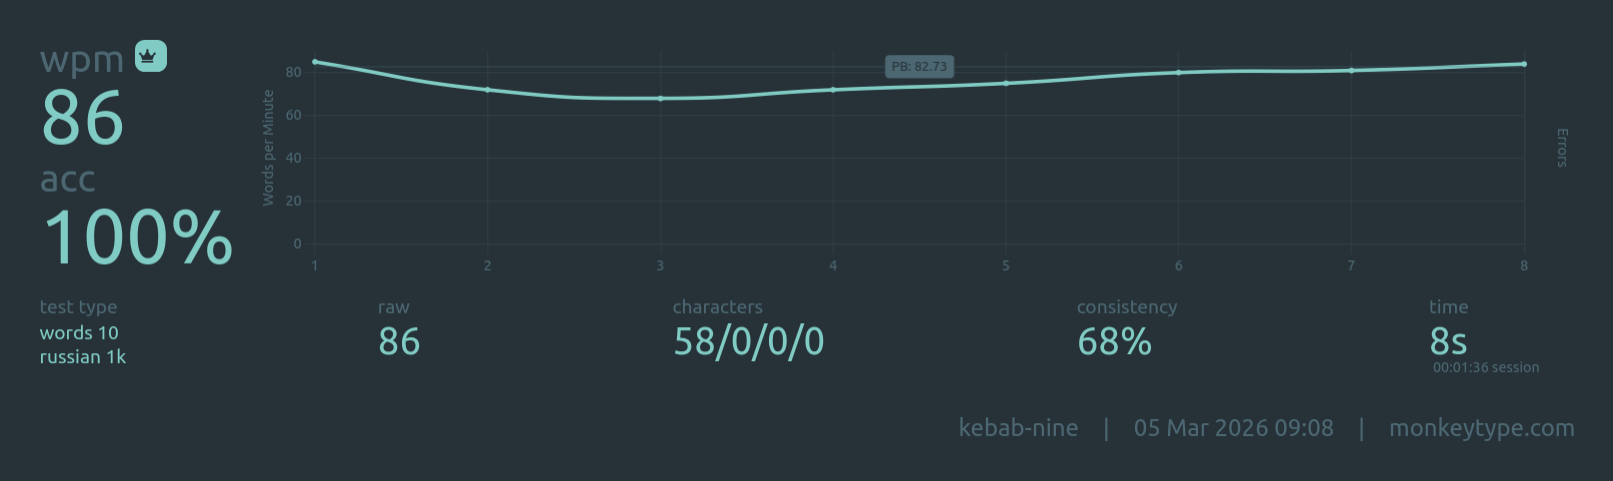
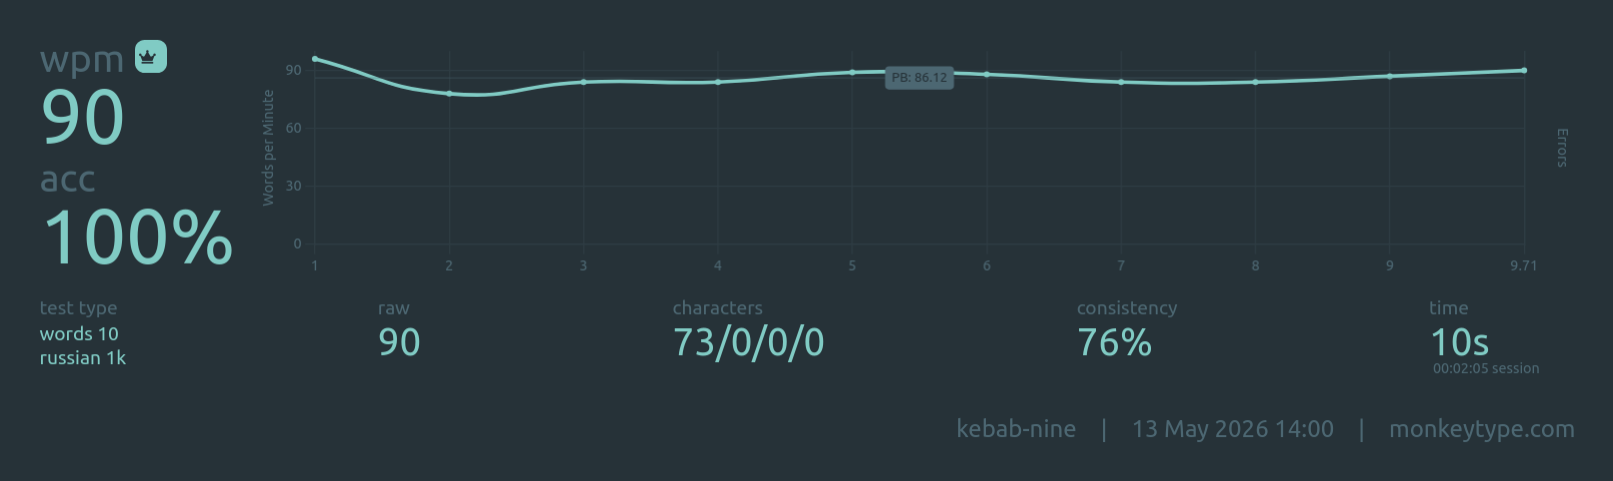
README: new PB on the latest RU layout!

diff --git a/README.md b/README.md
@@ -196,7 +196,7 @@ Cons:
 - more load on right pinky 6.4% -> 7.8%;
 - less load on left index 10.6% -> 9.3%.
 
-It feels way better despite increased load on the right pinky.
+It feels a way better despite increased load on the right pinky.
 ![MonkeyType results on Russian 1k words 10 test Д/З flavor](./images/ru-progress-3.png)
 
 
